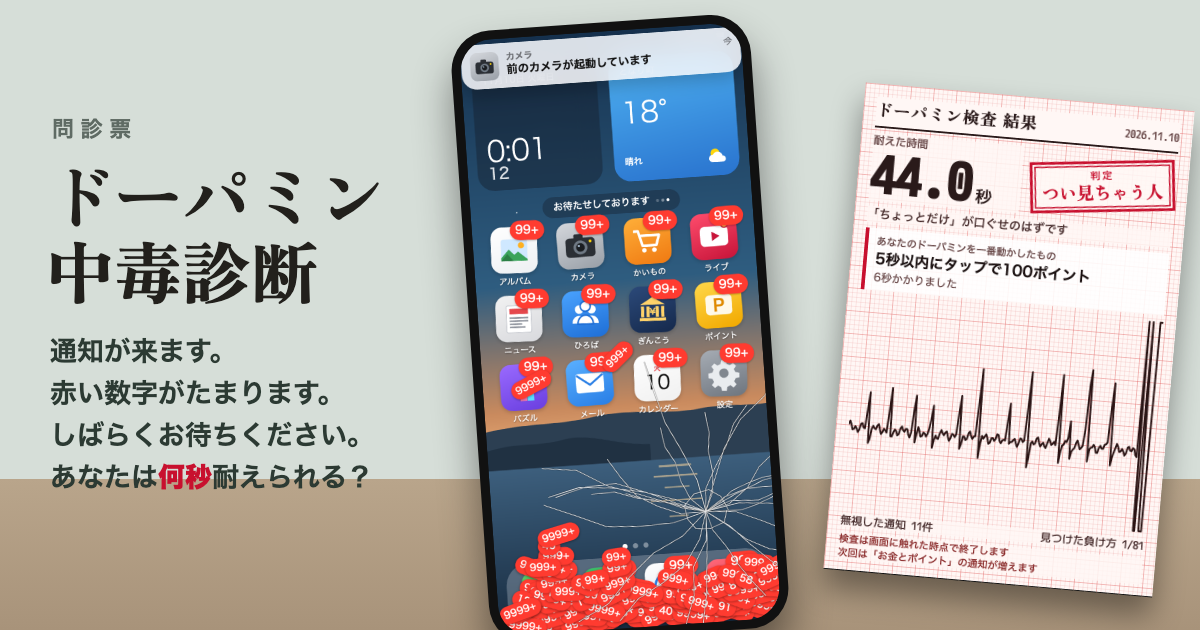
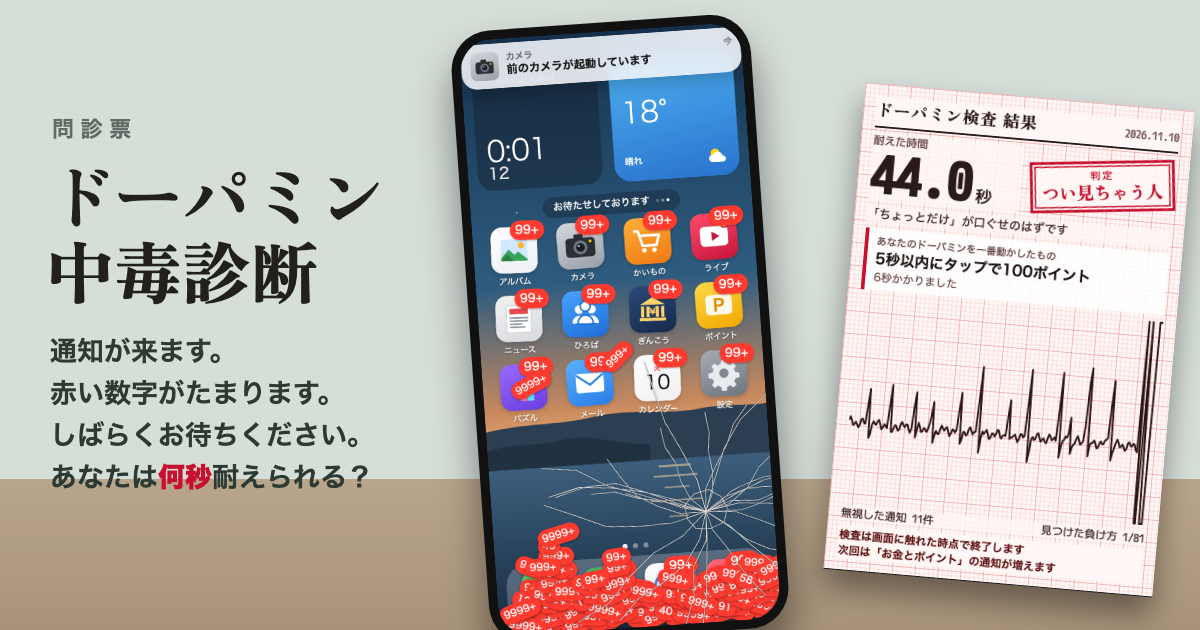
開いた中身のオチを見せる・問診票と記録紙の読みやすさ・宣伝動画

Changed region(s): [[0.6783, 0.7841, 0.9558, 0.9048], [0.7092, 0.6333, 0.9558, 0.7238]]

diff --git a/game.js b/game.js
@@ -384,7 +384,7 @@ function lose(k, el, x, y) {
       const tr = D.TRAP[k] || D.TRAP.empty
       if (!D.TRAP[k]) k = 'empty'
       app = tr.app || 'set'; cat = tr.cat
-      h = tr[lang][0]; b = tr[lang][1]; sub = h + (lang === 'ja' ? '' : ' ') + b
+      h = tr[lang][0]; b = tr[lang][1]; sub = h + (lang === 'ja' ? (/^[がをにとで]/.test(b) ? '' : '　') : ' ') + b
       const src = el && el.closest && el.closest('[data-k]')
       const txt = src && src !== phone && src.id !== 'fakeEnd' && src.id !== 'dimOv' && src.id !== 'black' && src.id !== 'call' ? src.textContent.trim().replace(/\s+/g, ' ') : ''
       const ja = lang === 'ja', shH = $('#shH').textContent
@@ -413,6 +413,7 @@ function lose(k, el, x, y) {
   o.innerHTML = `<div class="oh" style="${appBg(app)};${D.APPS[app].c[0] === '#ffffff' || D.APPS[app].c[0] === '#f2f2f2' ? 'color:#111' : ''}"><span class="bi" style="${appBg(app)}">${glyph(app)}</span>${esc(appName(app))}</div><div class="ob">${body}</div>`
   o.hidden = false
   Snd.play('open', { vol: 0.8, jitter: 0 })
+  setTimeout(() => { if (G.scene === 'open') Snd.play('pop', { vol: 0.7, rate: 0.85 }) }, 560)
   G.openT = 2.9
 }
 function finish() {

diff --git a/data.js b/data.js
@@ -110,7 +110,7 @@ window.DATA = (function () {
     upnow: { cat: 'sys', app: 'set', ja: ['再起動します', 'しません'], en: ['Restarting', 'Not really'] },
     upnight: { cat: 'sys', app: 'set', ja: ['今夜にしました', 'もう今夜です'], en: ['Scheduled for tonight', 'It is tonight already'] },
     slot: { cat: 'trap', app: 'set', ja: ['ここ', 'でした'], en: ['Here', 'Yep, here'] },
-    fake: { cat: 'fake', app: 'set', ja: ['診断終了', 'それも通知でした'], en: ['Test complete', 'That was a notification too'] },
+    fake: { cat: 'fake', app: 'set', ja: ['診断終了', 'と見せかけた通知でした'], en: ['Test complete', '...was just another notification'] },
     badge: { cat: 'app', app: 'set', ja: ['赤い丸', 'に負けました'], en: ['A red dot', 'beat you'] },
     clock: { cat: 'app', app: 'cal', ja: ['いまの時刻', '確かめたくなりましたね'], en: ['The time', 'You just had to check'] },
     sbar: { cat: 'empty', app: 'set', ja: ['上から', '何も出てきません'], en: ['From the top', 'Nothing comes down'] },

diff --git a/index.html b/index.html
@@ -371,10 +371,10 @@ a{-webkit-tap-highlight-color:transparent}
   },15000);
 })();
 </script>
-<script src="tm.js?v=1" data-game="dopamine-check"></script>
-<script src="sfx.js?v=1"></script>
-<script src="data.js?v=1"></script>
-<script src="game.js?v=1"></script>
-<script src="support.js?v=1" data-ja="板チョコ" data-en="a chocolate bar"></script>
+<script src="tm.js?v=2" data-game="dopamine-check"></script>
+<script src="sfx.js?v=2"></script>
+<script src="data.js?v=2"></script>
+<script src="game.js?v=2"></script>
+<script src="support.js?v=2" data-ja="板チョコ" data-en="a chocolate bar"></script>
 </body>
 </html>
